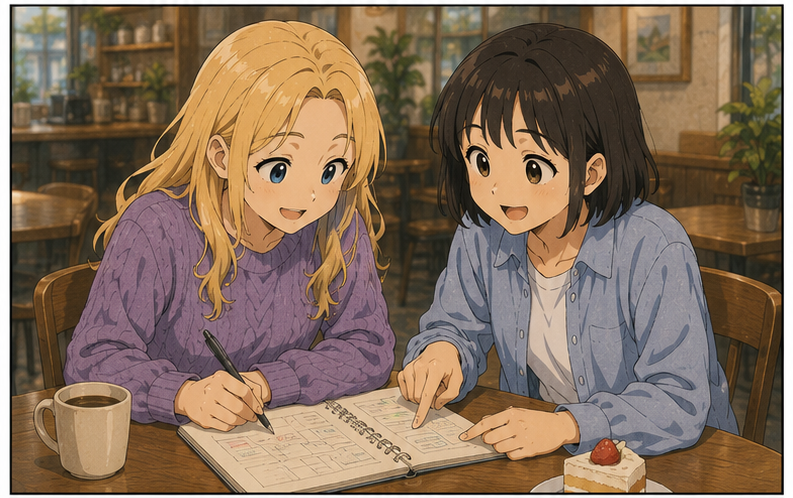
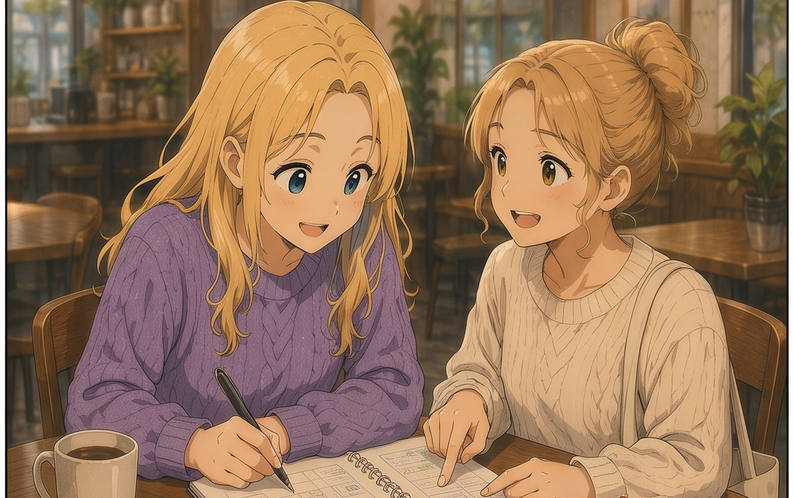
K-PATTO: replace ep42 cuts by cropping the redraw to fit
ep42's redraw is 0.33 wide/tall (existing cuts come from a 0.40 page), so
the script now has CROP_FIT: per row it crops one shared height (so split
cuts keep the same scale and line up), trims the extra width evenly from
the sides, and places the crop per row to keep heads, hands and cups.
No stretching; files keep their names and sizes.

diff --git a/scripts/kpatto-replace-cuts.py b/scripts/kpatto-replace-cuts.py
@@ -32,6 +32,9 @@ PUBLIC = os.path.join(os.path.dirname(__file__), '..', 'public', 'kpatto')
 WM_LARGE = (113, 58)
 WM_SMALL = (75, 15)
 MAX_STRETCH = 0.03
+# 원본 비율이 기존 컷과 달라 늘리는 대신 위아래를 잘라 맞출 화 — 줄마다 잘라낼 높이 중 위쪽에서 덜어낼 몫.
+# ep42: 새 그림이 0.33 비율(기존 0.40). 머리 · 손 · 컵이 남도록 줄마다 위치를 정했다.
+CROP_FIT = {42: [0.47, 0.30, 0.35, 0.75]}
 # 알파 맵을 잴 이미지: 반짝이가 어두운 단색 배경 위에 있는 것
 ALPHA_REFS = ('ep43',)
 
@@ -189,12 +192,23 @@ def main():
             continue
 
         plan = []
-        for new_row, old_row in zip(rows, old):
+        for ri, (new_row, old_row) in enumerate(zip(rows, old)):
+            if ep in CROP_FIT:
+                # 줄마다 같은 높이로 잘라 분할 컷끼리 배율 · 높이가 맞게 한다. 남는 폭은 양옆에서 똑같이 덜어낸다.
+                H = min((x1 - x0) * th / tw for (x0, y0, x1, y1), (_, (tw, th)) in zip(new_row, old_row))
             for (x0, y0, x1, y1), (path, (tw, th)) in zip(new_row, old_row):
+                if ep in CROP_FIT:
+                    W, cx = H * tw / th, (x0 + x1) / 2
+                    top = y0 + ((y1 - y0) - H) * CROP_FIT[ep][ri]
+                    box = (round(cx - W / 2), round(top), round(cx + W / 2), round(top + H))
+                    print(f'  {os.path.basename(path)}: crop {box[2] - box[0]}x{box[3] - box[1]} '
+                          f'(trim top {box[1] - y0} · bottom {y1 - box[3]} · sides {box[0] - x0}) → {tw}x{th}')
+                    plan.append((box, path, (tw, th), 0.0))
+                    continue
                 stretch = (tw / th) / ((x1 - x0) / (y1 - y0)) - 1
                 plan.append(((x0, y0, x1, y1), path, (tw, th), stretch))
                 print(f'  {os.path.basename(path)}: crop {x1 - x0}x{y1 - y0} → {tw}x{th} (aspect change {stretch:+.1%})')
-        # 원본 비율이 기존 컷과 다르면 같은 크기로 맞출 때 그림이 늘어난다 — 덮어쓰지 않는다
+        # 원본 비율이 기존 컷과 다르면 같은 크기로 맞출 때 그림이 늘어난다 — 덮어쓰지 않는다(CROP_FIT 화는 잘라서 맞춤)
         if max(abs(p[3]) for p in plan) > MAX_STRETCH:
             print(f'  ✗ aspect change over {MAX_STRETCH:.0%} — skipped (the source has a different shape)')
             continue
